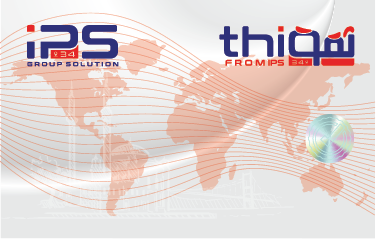
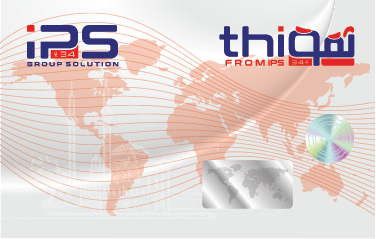
update cards design

Changed region(s): [[0.5266, 0.6444, 0.7899, 0.8787]]

diff --git a/src/app/site/pages/profile/profile-card-info-page/profile-card-info-page.component.css b/src/app/site/pages/profile/profile-card-info-page/profile-card-info-page.component.css
@@ -20,14 +20,14 @@
 .card-name {
   position: absolute;
   bottom: 73px;
-  left: 35px;
+  left: 6px;
   font-size: 2em;
   font-weight: bold;
 }
 .card-number {
   position: absolute;
   bottom: 45px;
-  left: 35px;
+  left: 6px;
   font-size: 1.5em;
   font-weight: bold;
 }
@@ -35,7 +35,7 @@
 .card-date {
   position: absolute;
   bottom: 25px;
-  left: 35px;
+  left: 6px;
   font-size: 1.5em;
   font-weight: bold;
 }
